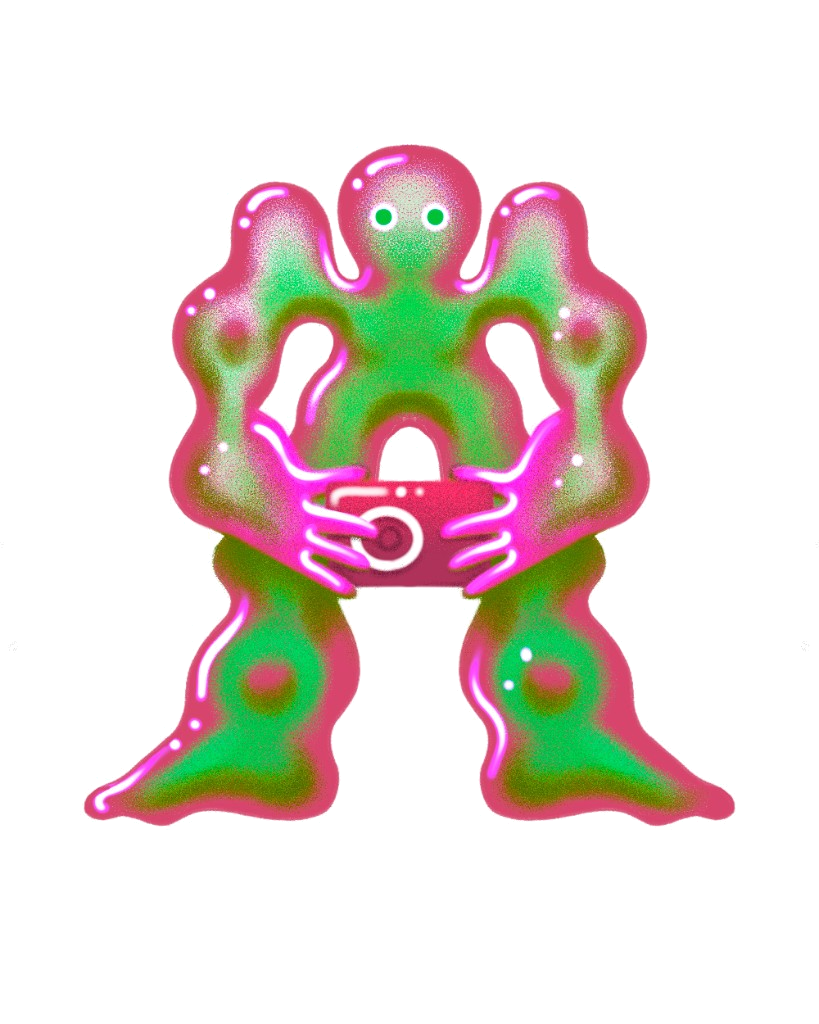
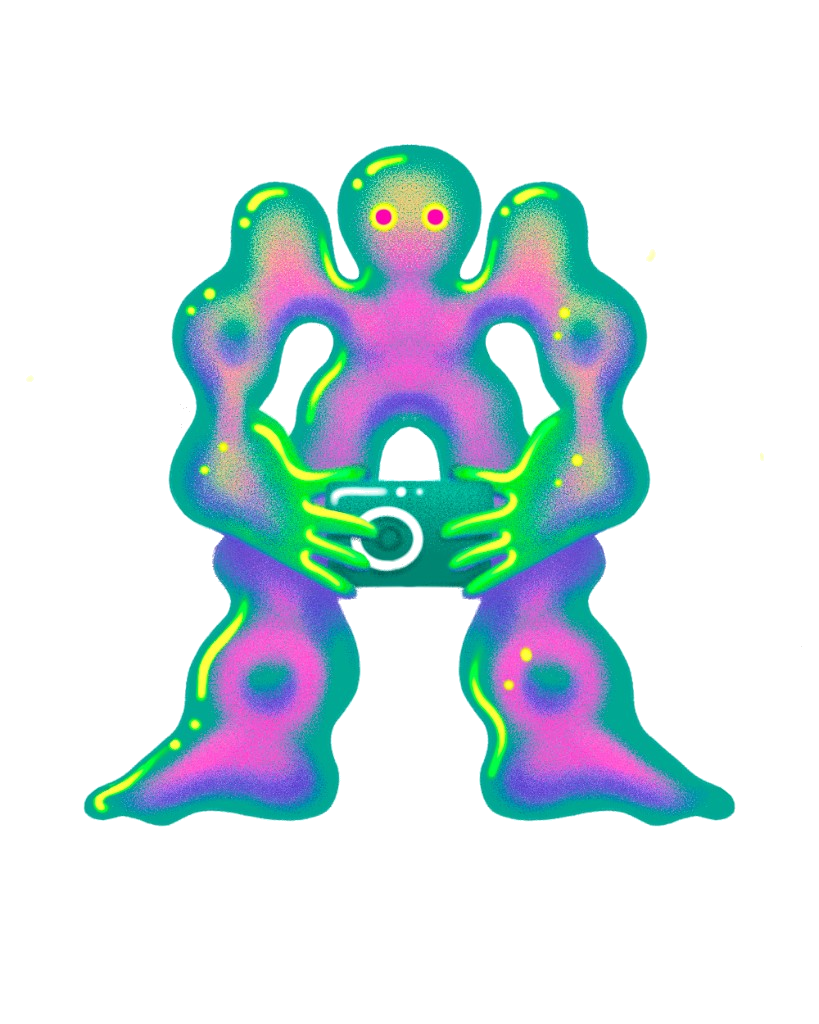
spring

Changed region(s): [[0.0916, 0.125, 0.9158, 0.8125]]

diff --git a/index.html b/index.html
@@ -1904,8 +1904,8 @@
   <section id="step-LANDING" class="step active">
     <div class="hero-section">
       <div class="hero-content">
-        <img class="hero-logo" id="hero-logo" alt="Escape the Downtown mascot" width="360" height="360" decoding="async">
-        <script>document.getElementById("hero-logo").src = document.documentElement.dataset.heroLogo;</script>
+        <img class="hero-logo" id="hero-logo" alt="Escape the Downtown mascot" width="360" height="360" decoding="async" src="assets/hero/shy-spring.png" onerror="this.onerror=null;this.src='assets/hero/shy-spring.png';">
+        <script>(function(){var img=document.getElementById("hero-logo");var logo=document.documentElement.dataset.heroLogo;if(logo&&logo!==img.getAttribute("src"))img.src=logo;})();</script>
         <h1>Let&rsquo;s get you out of <span class="hero-location-wrap" aria-live="polite"><span class="hero-location" id="hero-location-word">downtown</span></span> and into &ldquo;East&nbsp;Vancouver&rdquo;<sup><a class="footnote-link" href="https://www.seasonsofeastvan.com/about" target="_blank" rel="noopener noreferrer" title="About East Vancouver">1</a></sup></h1>
         <p class="hero-subtitle">Whether you&rsquo;re here visiting for the first time, or have found yourself stuck in your regular routine, I am here to get you into some of our more eclectic east-end neighborhoods.</p>
         <p class="hero-about"><a class="hero-about-link" href="https://www.seasonsofeastvan.com/about" target="_blank" rel="noopener noreferrer">Who am I?</a></p>